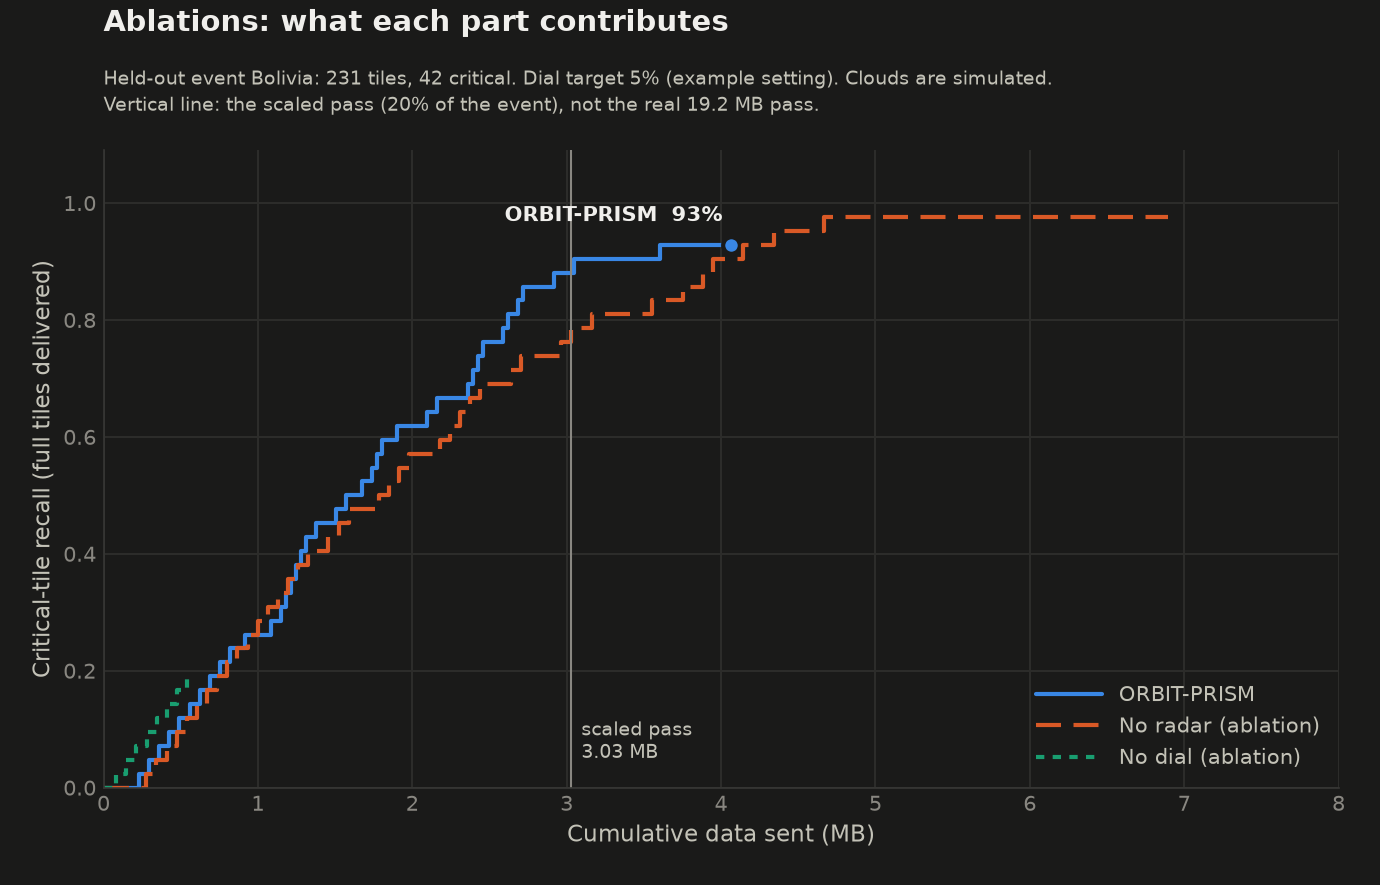
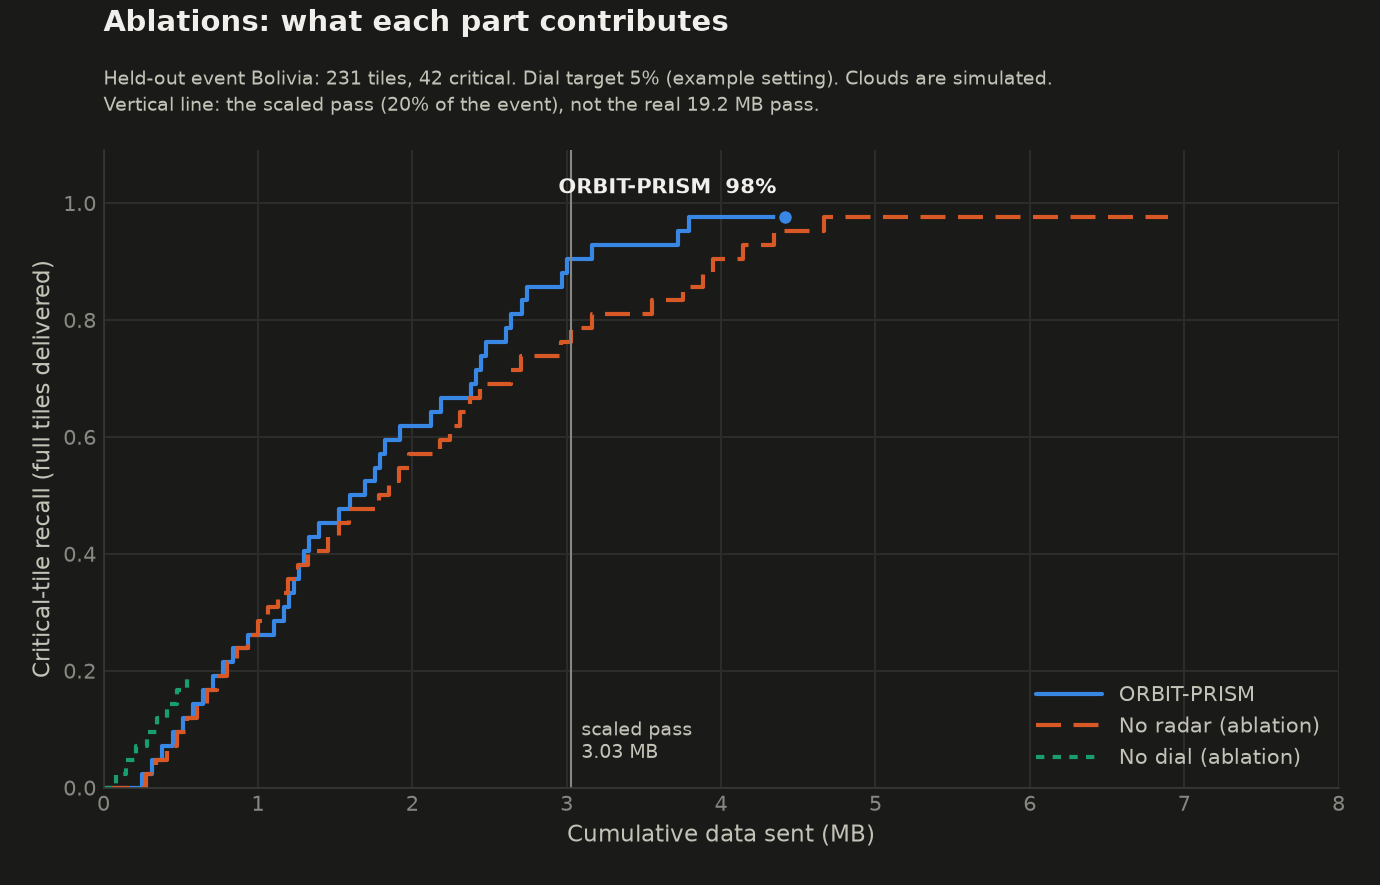
Calibrate the radar dial on all critical validation tiles
Radar scores do not depend on simulated cloud, so the dial uses 118 tiles instead of the 42 routed to radar, and its
1% target gets a real cut-off. Bolivia: radar 0%, 0%, 9.5% missed at 1, 5, 10% (was keep-all, 9.5%, 28.6%); ORBIT-PRISM
reaches 95% recall at 3.72 MB and ends at 97.6%, sending 4.41 MB instead of 4.06 MB. The choice followed the Bolivia
result, so results/dial_test.csv reports the test split beside it: radar 5.6%, 9.9%; optical 9.7%, 12.9% (over target).

diff --git a/web/js/app.js b/web/js/app.js
@@ -19,7 +19,7 @@ const STEPS = [
   ["Cloud check", "Is the optical tile usable? Cloud cover of 50% or more routes the tile to radar. Clouds are simulated."],
   ["Run the small INT8 model", "The optical model on clear tiles, the radar model under cloud; both far below the 4.2 MB budget."],
   ["Subtract normal water", "A river is not a flood. In our evaluation this rule is applied to the labels (JRC permanent-water layer)."],
-  ["Miss-rate dial", "Keep or skip each tile using a threshold calibrated on held-back data, separately for each path."],
+  ["Miss-rate dial", "Keep or skip each tile using a cut-off calibrated on held-back data, separately for each sensor."],
   ["Priority score", "Flood probability × flood extent."],
   ["Scheduler", "Fill each pass by priority per byte; leftovers carry over to the next pass."],
   ["Send in layers", "A 32-byte alert first, then a preview, then the full tile. Minutes matter more than pixels."],
@@ -89,7 +89,7 @@ function setAlpha(a, quiet) {
   const zero = t && Object.entries(t.sends_everything).filter(([, v]) => v).map(([k]) => k);
   if (zero && zero.length) {
     note.hidden = false;
-    note.innerHTML = `Dial target <b>${Math.round(a * 100)}%</b>: ${zero.join(" and ")} has few critical calibration tiles, so the conformal threshold is 0. <b>It keeps every tile on that path</b>, missing none.`;
+    note.innerHTML = `Dial target <b>${Math.round(a * 100)}%</b>: the ${zero.join(" and ")} path has too few critical calibration tiles (a 1% target needs 99), so its cut-off is 0. <b>It keeps every tile on that path</b>, missing none.`;
   } else { note.hidden = true; note.textContent = ""; }
   paintGrid();
   if (ST.sel && !quiet) selectTile(ST.sel);
@@ -342,10 +342,12 @@ async function loadResults() {
   if (cur.curves) { const c = {}; Object.entries(cur.curves).forEach(([n, p]) => !n.includes("ablation") && (c[n] = p)); recallChart($("#chart"), c, { scaledMB: cur.scaled_pass_MB }); }
   else $("#chart").innerHTML = `<div class="notice err">${esc(cur.error)}</div>`;
   $("#summary").innerHTML = sum.rows ? summaryTable(sum.rows.filter((r) => !r.system.includes("ablation"))) : `<div class="notice err">${esc(sum.error)}</div>`;
-  $("#dialtable").innerHTML = dial.measured ? (dial.measured.length ? `<table><tr><th>path</th><th>target miss rate</th><th>cut-off</th><th>critical tiles</th><th>missed</th><th>achieved miss rate</th></tr>` + dial.measured.map((d) => {
-    const all = Number(d.threshold) === 0;
-    return `<tr><td>${esc(d.path)}</td><td>${F.pct(d.target_miss_rate, 0)}</td><td>${F.n(d.threshold)}</td><td>${d.critical_tiles}</td><td>${d.missed}</td><td>${all ? "not met: keeps every tile" : F.pct(d.achieved_miss_rate)}</td></tr>`;
-  }).join("") + `</table><p class="small muted">A 1% target needs at least 99 critical calibration tiles; with fewer, the cut-off is 0 and every tile is kept (nothing missed, nothing saved). A target is met only if test data resembles the calibration data; the achieved rate is whatever was measured.</p>` : "<p class='muted'>Not available yet.</p>") : `<div class="notice err">${esc(dial.error)}</div>`;
+  const nCal = ((dial.targets || [])[0] || {}).critical_calibration_tiles || {};
+  const dialRows = (rows, label) => rows.map((d) => {
+    const all = Number(d.threshold) === 0, ok = d.achieved_miss_rate <= d.target_miss_rate;
+    return `<tr><td>${label}</td><td>${esc(d.path)}</td><td>${F.pct(d.target_miss_rate, 0)}</td><td>${F.n(d.threshold)}</td><td>${d.critical_tiles}</td><td>${d.missed}</td><td class="${all ? "" : ok ? "ok" : "no"}">${all ? "not met: keeps every tile" : F.pct(d.achieved_miss_rate) + (ok ? " held" : " over")}</td></tr>`;
+  }).join("");
+  $("#dialtable").innerHTML = dial.measured ? (dial.measured.length ? `<table><tr><th>flood data</th><th>path</th><th>target miss rate</th><th>cut-off</th><th>critical tiles</th><th>missed</th><th>achieved miss rate</th></tr>` + dialRows(dial.measured, "Bolivia (unseen flood)") + dialRows(dial.measured_test || [], "test chips (seen floods)") + `</table><p class="small muted">A 1% target needs at least 99 critical calibration tiles. Radar scores do not depend on simulated cloud, so the radar dial calibrates on all ${nCal.radar} critical validation tiles. The optical model is blind under cloud, so its dial can use only the ${nCal.optical} clear ones; at 1% its cut-off is 0 and it keeps every tile (nothing missed, nothing saved).</p>` : "<p class='muted'>Not available yet.</p>") : `<div class="notice err">${esc(dial.error)}</div>`;
   if (dial.measured && dial.measured.length) {
     const lines = ["optical", "radar"].map((path) => {
       const rows = dial.measured.filter((d) => d.path === path && Number(d.threshold) > 0);
@@ -354,7 +356,7 @@ async function loadResults() {
       return `<div class="${held ? "held" : "broke"}"><b>${path} path: ${held ? "held on this flood" : "did not hold on this flood"}</b>${text}.</div>`;
     });
     const n = dial.measured[0].critical_tiles;
-    $("#dialverdict").innerHTML = `<div class="verdict">${lines.join("")}</div><p class="small muted">With ${n} critical tiles per path, one tile moves the rate by ${F.pct(1 / n)}, so these are thin evidence either way. Bolivia is a different flood from the calibration floods, and the radar model's INT8 scores sit close together, so a small shift moves many tiles past the cut-off. Use the link simulator to see how the rates move under other clouds.</p>`;
+    $("#dialverdict").innerHTML = `<div class="verdict">${lines.join("")}</div><p class="small muted">With ${n} critical tiles per path, one tile moves the rate by ${F.pct(1 / n)}, so this is thin evidence. The test chips are a second check, on floods the calibration also saw. A promise only holds when test data resembles the calibration data. Use the link simulator to see how the rates move under other clouds.</p>`;
   }
   $("#memory").innerHTML = mem.rows && mem.rows.length ? `<table><tr><th>model</th><th>dtype</th><th>weights KB</th><th>peak activation KB (est.)</th><th>total KB</th><th>% of 4.2 MB</th><th>MACs</th><th>recall</th><th>ece</th><th>basis</th></tr>` + mem.rows.map((m) =>
     `<tr><td>${esc(m.model)}</td><td>${esc(m.dtype)}</td><td>${F.kb(m.weights_bytes)}</td><td>${F.kb(m.peak_activation_bytes)}</td><td>${F.kb(m.total_bytes)}</td><td>${F.pct(m.total_bytes / mem.sram_bytes)}</td><td>${Number(m.macs).toLocaleString()}</td><td>${esc(m.recall)}</td><td>${esc(m.ece)}</td><td>${esc(m.basis)}</td></tr>`).join("") + `</table><p class="small muted">Weights are measured; peak activation is estimated from the model graph. Recall and ECE are on the validation split at the float model's 90%-recall cut-off. Radar INT8 recall of 1 means that cut-off keeps almost every tile (INT8 radar scores are compressed upward), not a better model.</p>` : `<p class="muted">The memory table has not been produced yet (it comes from the INT8 step).</p>`;

diff --git a/src/calibration/conformal.py b/src/calibration/conformal.py
@@ -124,6 +124,7 @@ class SplitConformalDial:
         self.thresholds: Dict[str, Dict[str, float]] = {"optical": {}, "radar": {}}
         self.metadata: Dict[str, Dict[str, dict]] = {"optical": {}, "radar": {}}
         self.n_critical: Dict[str, int] = {"optical": 0, "radar": 0}
+        self.radar_basis = "radar_routed_critical_tiles"
 
     def calibrate_path(
         self,
@@ -156,8 +157,15 @@ class SplitConformalDial:
         sensor_col: str = "sensor_used",
         split_col: str = "split",
         calib_splits: Optional[List[str]] = None,
+        radar_all_col: Optional[str] = None,
     ) -> "SplitConformalDial":
-        """Calibrate both optical and radar dials using critical calibration tiles."""
+        """Calibrate both optical and radar dials using critical calibration tiles.
+
+        radar_all_col names a column with the radar model's score on EVERY tile. When present, the radar dial
+        uses all critical calibration tiles, not only the cloudy ones routed to radar: simulated clouds touch
+        optical bands only, so a radar score does not depend on whether its tile happened to be cloudy. The
+        optical dial cannot do this, because the optical model is blind under cloud.
+        """
         if calib_splits is None:
             calib_splits = ["valid", "calibration"]
 
@@ -170,8 +178,11 @@ class SplitConformalDial:
         logger.info("Found %d critical calibration tiles across all paths.", len(crit_df))
 
         for path in ["optical", "radar"]:
-            sub = crit_df[crit_df[sensor_col] == path]
-            scores = sub[score_col].values
+            if path == "radar" and radar_all_col and radar_all_col in crit_df.columns:
+                scores = crit_df[radar_all_col].values
+                self.radar_basis = "all_critical_tiles (radar scores do not depend on simulated clouds)"
+            else:
+                scores = crit_df[crit_df[sensor_col] == path][score_col].values
             self.calibrate_path(scores, path)
 
         return self

diff --git a/src/calibration/calibrate.py b/src/calibration/calibrate.py
@@ -27,6 +27,7 @@ DEFAULT_TILES_BASE = ROOT_DIR / "data" / "tiles_base.csv"
 DEFAULT_OPTICAL_SCORES = ROOT_DIR / "results" / "scores_optical_int8.csv"
 DEFAULT_RADAR_SCORES = ROOT_DIR / "results" / "scores_radar_int8.csv"
 DEFAULT_OUTPUT_JSON = ROOT_DIR / "results" / "calibration.json"
+RADAR_ALL_COL = "p_radar_all"     # the radar model's score on every tile, whichever sensor the tile was routed to
 
 
 def _read_scores(path: Path) -> pd.DataFrame:
@@ -73,6 +74,7 @@ def load_dataset_for_calibration(
                 p_floods.append(rad_map.get(key, np.nan))
 
         merged["p_flood"] = p_floods
+        merged[RADAR_ALL_COL] = [rad_map.get((r.chip, int(r.row), int(r.col)), np.nan) for r in merged.itertuples()]
         n_missing = int(merged["p_flood"].isna().sum())
         if n_missing:
             raise SystemExit(f"{n_missing} tiles have no score for their sensor path; the score files must "
@@ -168,6 +170,7 @@ class CalibrationPipeline:
             sensor_col=sensor_col,
             split_col=split_col,
             calib_splits=calib_splits,
+            radar_all_col=RADAR_ALL_COL,
         )
 
         self.is_calibrated = True
@@ -212,6 +215,7 @@ class CalibrationPipeline:
             "radar": rad_thresh,
             "target_alphas": [str(a) for a in self.target_alphas],
             "critical_calibration_tiles": self.conformal_dial.n_critical,
+            "radar_calibration_basis": self.conformal_dial.radar_basis,
             "calibration_events": self.calibration_events,
             "score_direction": "higher_score_indicates_greater_flood_probability",
             "threshold_convention": "k_th_smallest_critical_score (1-based k = floor((n+1)*alpha))",

diff --git a/scripts/evaluate.py b/scripts/evaluate.py
@@ -6,6 +6,7 @@ Outputs (in --out, default results/ for real runs and results/synthetic/ for pla
     summary.csv      per system: bytes to 95% recall, recall at the scaled pass, cloudy recall,
                      final recall, alert recall, time to first critical alert
     dial.csv         target miss rate vs achieved miss rate per path
+    dial_test.csv    the same on the chip-level test split (secondary, in-distribution check)
     curves.csv       the plotted curves as a table (the table view of headline.png)
     run_info.json    where the scores came from, the split, counts, and whether it is synthetic
 
@@ -159,6 +160,10 @@ def main():
     summary["realised_miss_rate"] = [metrics.realised_miss_rate(test, kept_mask(test, logs[p])) for p in logs]
     summary.to_csv(out / "summary.csv", index=False, lineterminator="\n", float_format="%.4f")
     dial_table(test, cal).to_csv(out / "dial.csv", index=False, lineterminator="\n", float_format="%.4f")
+    # a second check on tiles no model or dial choice was tuned on (the chip-level test split, not on the headline plot)
+    in_dist = all_tiles[all_tiles["split"] == "test"]
+    if len(in_dist):
+        dial_table(in_dist, cal).to_csv(out / "dial_test.csv", index=False, lineterminator="\n", float_format="%.4f")
 
     curves = {names[p]: metrics.recall_curve(logs[p], test) for p in logs}
     long = pd.concat([c.assign(system=n, cum_MB=c["cum_bytes"] / 1e6)[["system", "cum_MB", "recall"]]

diff --git a/tests/calibration/test_calibration.py b/tests/calibration/test_calibration.py
@@ -96,6 +96,24 @@ def test_conformal_threshold_is_stored_exactly_so_tied_scores_are_kept():
     assert not (scores < res["threshold"]).any()
 
 
+def test_radar_dial_can_use_all_critical_tiles_but_optical_stays_on_its_own_path():
+    n = 120
+    df = pd.DataFrame({
+        "split": ["valid"] * n, "critical": [1] * n,
+        "sensor_used": ["optical"] * 80 + ["radar"] * 40,
+        "p_flood": np.linspace(0.2, 0.9, n),
+        "p_radar_all": np.linspace(0.1, 0.8, n),
+    })
+    dial = SplitConformalDial(target_alphas=[0.01])
+    dial.calibrate(df, calib_splits=["valid"], radar_all_col="p_radar_all")
+    assert dial.n_critical == {"optical": 80, "radar": 120}
+    assert dial.thresholds["radar"]["0.01"] == pytest.approx(0.1)      # k = floor(121 * 0.01) = 1: a real cut-off
+    assert dial.thresholds["optical"]["0.01"] == 0.0                   # 80 tiles: still keeps everything
+    routed = SplitConformalDial(target_alphas=[0.01])
+    routed.calibrate(df.drop(columns="p_radar_all"), calib_splits=["valid"], radar_all_col="p_radar_all")
+    assert routed.n_critical["radar"] == 40
+
+
 def test_conformal_edge_case_k_zero():
     """Test small sample size where k = floor((n + 1) * alpha) == 0 triggers conservative fallback."""
     # With n = 10 critical scores, for alpha = 0.01:

diff --git a/backend/api.py b/backend/api.py
@@ -339,6 +339,8 @@ def create_app(root: Path = ROOT) -> FastAPI:
             targets.append({"target_miss_rate": a, "thresholds": t, "critical_calibration_tiles": n,
                             "sends_everything": {p: t[p] == 0.0 for p in t}})
         return {"synthetic": S.synthetic, "targets": targets, "measured": _frame(S.table("dial.csv")),
+                "measured_test": _frame(S.table("dial_test.csv")),
+                "radar_calibration_basis": S.cal.get("radar_calibration_basis"),
                 "score_source": S.cal.get("score_source")}
 
     @app.get("/api/memory")

diff --git a/CONTEXT.md b/CONTEXT.md
@@ -51,6 +51,7 @@ Design notes:
 8. **Permanent-water removal matters.** Subtracting the JRC layer turns 280 of 6,825 tiles (4.1%) from critical to non-critical, and permanent-water pixels stay in the denominator. Anyone rebuilding labels must do the same.
 
 9. **Simulated clouds are opaque (decided 2026-10-31).** Pixels inside the cloud mask (alpha >= 0.5) are pure white in the optical tiles; the old semi-transparent haze let optical models read through heavy cloud (AUROC 0.93 on 75-100% cloud tiles, against 0.79 when opaque) and hid the reason for the radar fallback. `cloud_frac`, routing, splits and `tiles_base.csv` are unchanged; the optical pixels, the optical model, its scores and everything downstream are rebuilt. The soft-cloud numbers are reported as a labelled sensitivity result, never as the headline.
+10. **The radar dial calibrates on all critical `valid` tiles (decided 2026-10-31).** Radar scores do not depend on simulated cloud, so it uses 118 tiles rather than the 42 routed to radar. The optical dial stays on its 76 clear tiles, so its 1% target keeps every tile. Decided after seeing Bolivia, so the chip-level `test` split (`results/dial_test.csv`) must be reported beside it: radar 5.6% and 9.9%, optical 9.7% and 12.9%, at the 5% and 10% targets.
 
 ## Scope (decided by Madhavan, 2026-10-31)
 

diff --git a/docs/agnel_calibration.md b/docs/agnel_calibration.md
@@ -28,6 +28,8 @@ The optical and radar sensing modalities face fundamentally different error stru
 - The radar calibrator fits strictly on radar tiles (`sensor_used == "radar"`).
 - Optical and radar calibration score distributions are **never** pooled together.
 
+**Radar dial basis (decided 2026-10-31):** each model keeps its own cut-offs, but the radar *dial* calibrates on the radar model's scores for all 118 critical `valid` tiles, not only the 42 routed to radar. Simulated clouds touch optical bands only, so a radar score does not depend on whether its tile was cloudy (clear vs cloudy critical tiles: median 0.213 vs 0.232, KS p = 0.40). The optical dial cannot do this because the optical model is blind under cloud, so it stays on its 76 clear tiles and its 1% target still falls back to threshold 0. The basis is recorded as `radar_calibration_basis` in `calibration.json`. This change was proposed after seeing the Bolivia dial results, so Bolivia is no longer fully independent evidence for it; the `test` split, which nothing was tuned on, is the cleaner check (`results/dial_test.csv`).
+
 ---
 
 ## 3. Stage 1: Isotonic Probability Calibration
